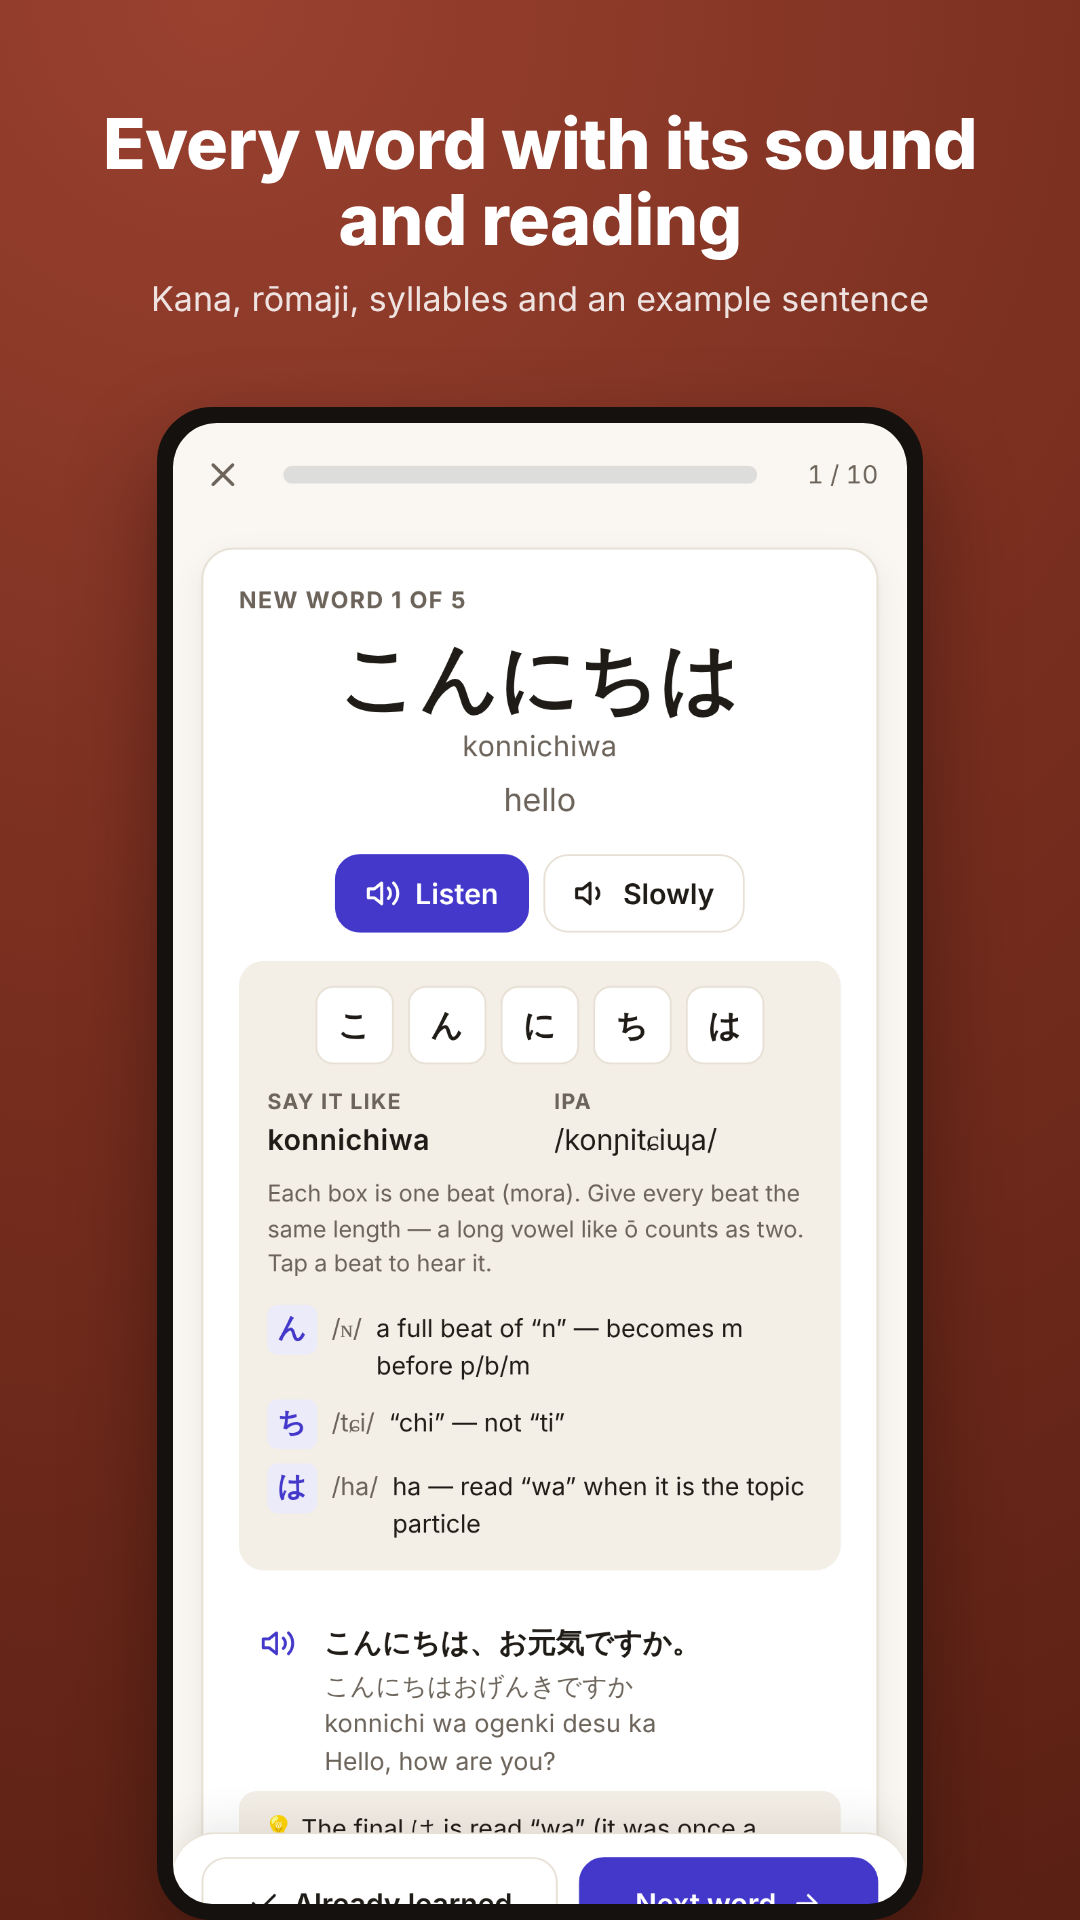
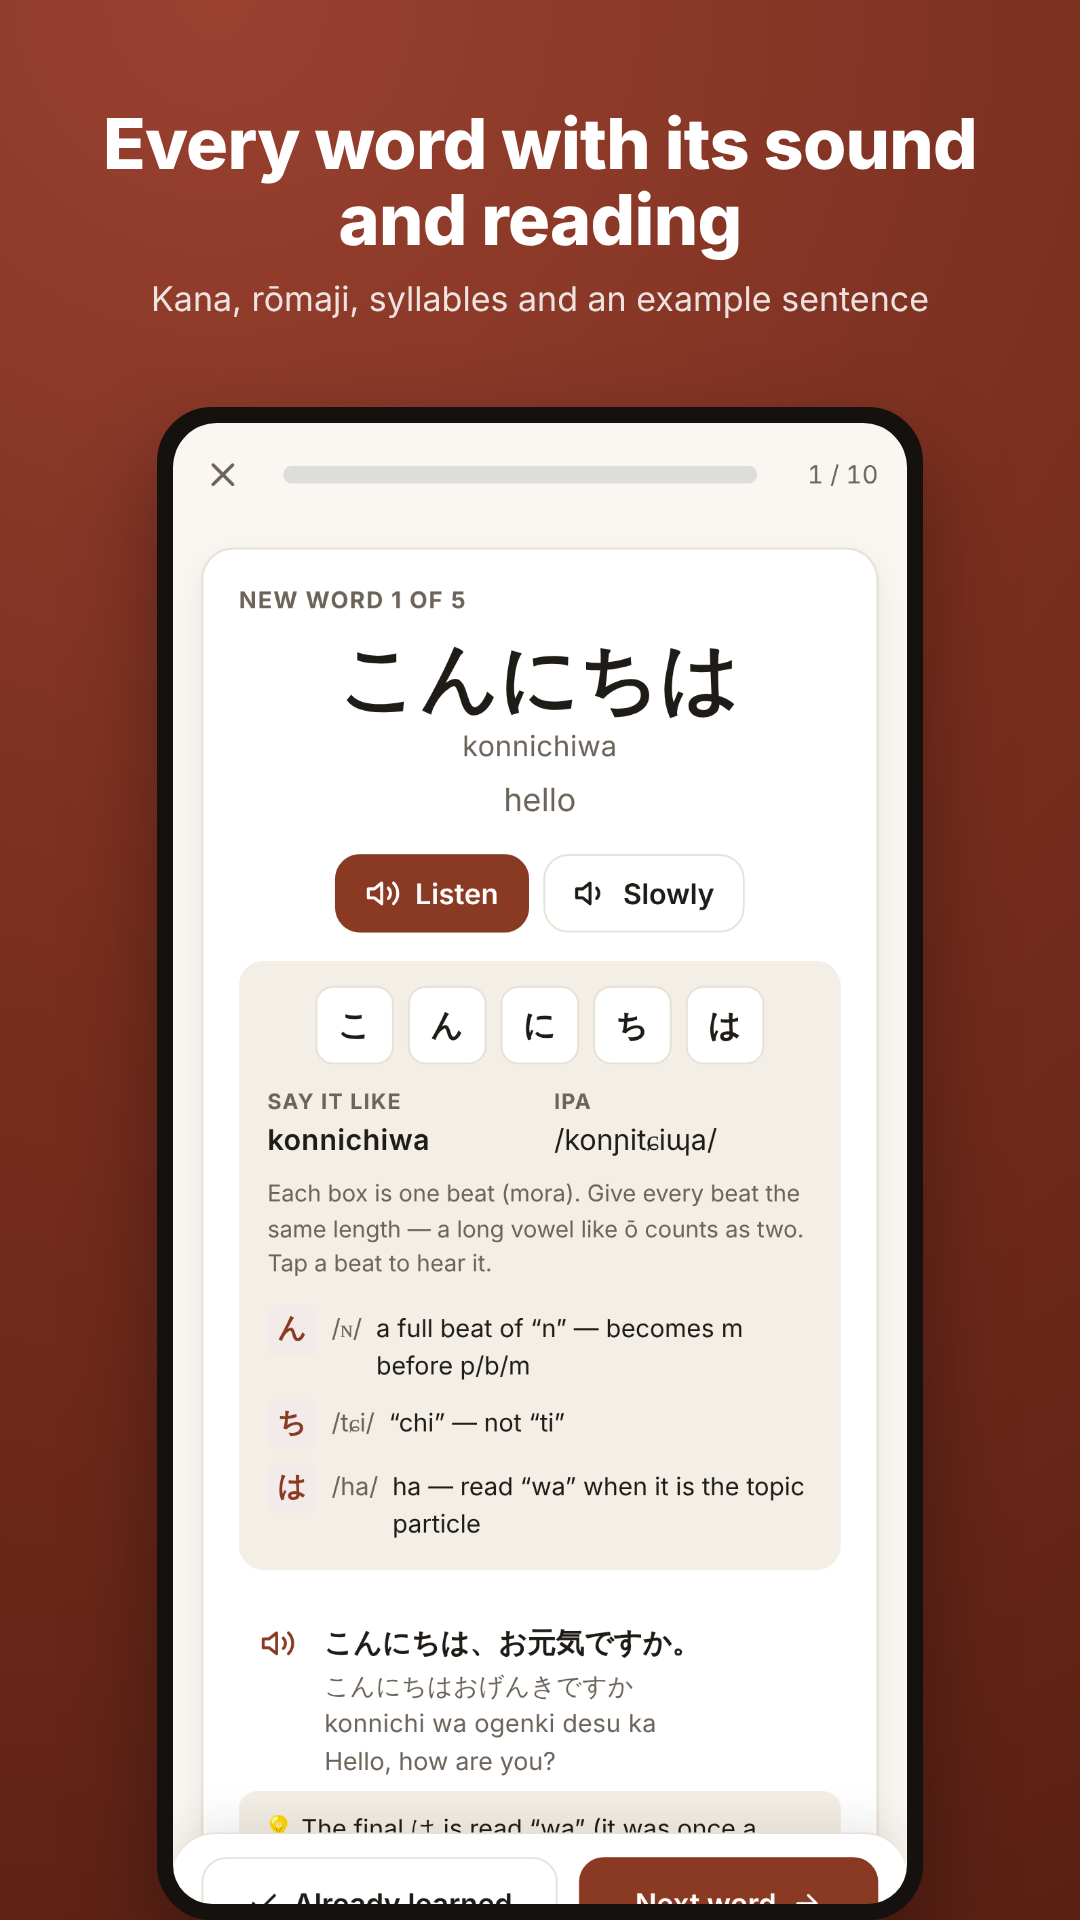
Motion, Tea as the standard colour, magenta for wrong answers
A new screen comes in block by block (app.js marks it .enter only when
the route changes, so a rerender stays still); rings and meters fill to
their value; the active tab hops; exercise choices arrive one by one;
buttons and cards give a little when pressed. Reduce motion turns all of
it off.

Tea, the terracotta of the icon, is the standard tap colour. Settings
saved before it (no colours: 2) move from indigo once; other colours
stay. Wrong answers are magenta so they never look like the tap colour
(the colour-role test keeps 60 degrees of hue between them).

Home's news card shows three items and a button for the rest. Store
screenshots regenerated in the new colours.

Claude-Session: https://claude.ai/code/session_01NKTM9xbjPU3QPKkrKpimbh

diff --git a/css/styles.css b/css/styles.css
@@ -5,7 +5,8 @@
    screen, notification badges). --action is for everything you tap (buttons,
    links, selected choices, audio, focus). --progress fills meters, rings and
    charts on a --track; finished things are --done (green, with a ✓). --bad is
-   for wrong answers and errors only, so nothing that is going well is red.
+   for wrong answers and errors only. The tap colour is the terracotta of the
+   icon (Tea), so errors are magenta rather than red: the two never look alike.
    Sizes: type --fs-*, corner radii --r-*, spacing --sp-* (4px steps).
    tests/styles.test.js checks the contrast of these pairs and that no
    stylesheet sets a raw rem font size or px corner radius. */
@@ -19,10 +20,10 @@
   --accent: #c8102e;
   --accent-ink: #ffffff;
   --accent-soft: #fbe8eb;
-  --action: #4338ca;
-  --action-hover: #3730a3;
+  --action: #8a3a22;
+  --action-hover: #6e2c18;
   --action-ink: #ffffff;
-  --action-soft: #ecebfa;
+  --action-soft: #f3ebe9;
   --progress: #1f8a58;
   --track: color-mix(in srgb, var(--text) 15%, var(--surface));
   --good: #1d7a45;
@@ -30,8 +31,8 @@
   --done: var(--good);
   --warn: #8f5b00;
   --warn-soft: #fbf0d9;
-  --bad: #c0392b;
-  --bad-soft: #fde9e6;
+  --bad: #a71b9b;
+  --bad-soft: #fce9fa;
   --easy: #1d4ed8;
   --easy-soft: #e5edfd;
   --rose: #be185d;
@@ -1380,3 +1381,76 @@ body.bare main { padding-top: 0; padding-bottom: 0; }
 .voice-name b { overflow-wrap: anywhere; }
 .voice-name small { color: var(--muted); font-size: var(--fs-xs); }
 .voice-on { display: inline-flex; align-items: center; gap: .25rem; font-size: var(--fs-sm); font-weight: 700; color: var(--action); padding-inline: .4rem; }
+
+/* ---------- Motion ----------
+   Short, quiet movement that says where things came from: a new screen rises
+   in block by block (app.js marks it .enter; drawing the same screen again
+   stays still), rings and meters fill up to their value, and anything you tap
+   gives a little under your finger. "Reduce motion" on the device turns all
+   of it off (the rule further up), and every animation only adds to a layout
+   that is complete without it. */
+:root {
+  --ease-out: cubic-bezier(.2, .8, .2, 1);
+  --ease-spring: cubic-bezier(.3, 1.45, .5, 1);
+}
+/* The rings' value can be animated once the browser knows it is a number. */
+@property --pct { syntax: '<number>'; inherits: false; initial-value: 0; }
+
+/* A new screen: each block a moment after the one above it (sessions have their own). */
+.view.enter:not(.session) > * { animation: enter-up .38s var(--ease-out) backwards; }
+.view.enter:not(.session) > :nth-child(2) { animation-delay: .04s; }
+.view.enter:not(.session) > :nth-child(3) { animation-delay: .08s; }
+.view.enter:not(.session) > :nth-child(4) { animation-delay: .12s; }
+.view.enter:not(.session) > :nth-child(5) { animation-delay: .16s; }
+.view.enter:not(.session) > :nth-child(6) { animation-delay: .2s; }
+.view.enter:not(.session) > :nth-child(n+7) { animation-delay: .24s; }
+@keyframes enter-up { from { opacity: 0; transform: translateY(10px); } }
+/* Lists of cards inside a block (topics, tools, achievements) follow in a ripple. */
+.view.enter :is(.cat-grid, .topic-grid, .shortcuts, .badge-grid, .news-list) > * { animation: enter-up .34s var(--ease-out) backwards; }
+.view.enter :is(.cat-grid, .topic-grid, .shortcuts, .badge-grid, .news-list) > :nth-child(2) { animation-delay: .1s; }
+.view.enter :is(.cat-grid, .topic-grid, .shortcuts, .badge-grid, .news-list) > :nth-child(3) { animation-delay: .14s; }
+.view.enter :is(.cat-grid, .topic-grid, .shortcuts, .badge-grid, .news-list) > :nth-child(4) { animation-delay: .18s; }
+.view.enter :is(.cat-grid, .topic-grid, .shortcuts, .badge-grid, .news-list) > :nth-child(5) { animation-delay: .22s; }
+.view.enter :is(.cat-grid, .topic-grid, .shortcuts, .badge-grid, .news-list) > :nth-child(6) { animation-delay: .26s; }
+.view.enter :is(.cat-grid, .topic-grid, .shortcuts, .badge-grid, .news-list) > :nth-child(n+7) { animation-delay: .3s; }
+
+/* Rings fill from empty to their value; meters grow from the start. */
+.view.enter :is(.goal-ring, .medal-ring), .score-ring { animation: ring-fill .9s var(--ease-out) .15s backwards; }
+@keyframes ring-fill { from { --pct: 0; } }
+.view.enter .meter-fill { transform-origin: left center; animation: meter-grow .8s var(--ease-out) .2s backwards; }
+@keyframes meter-grow { from { transform: scaleX(0); } }
+/* The goal met: the tick lands with a bounce. */
+.goal-ring.done .icon { animation: pop-in .5s var(--ease-spring) .5s backwards; }
+@keyframes pop-in { from { opacity: 0; transform: scale(.3); } }
+
+/* Pressing gives a little; letting go springs back. */
+.btn, .cta, .pill, .chip, .option, .tile, .cat-card, .shortcut, .quick-link, .up-next, .me-row, .lang-card, .medal, .news-list a, .tabbar a .icon {
+  transition-property: background, border-color, color, box-shadow, transform;
+  transition-duration: .15s, .15s, .15s, .2s, .18s;
+  transition-timing-function: ease, ease, ease, ease, var(--ease-spring);
+}
+:is(.btn, .cta, .pill, .chip, .option, .tile, .cat-card, .shortcut, .quick-link, .up-next, .me-row, .lang-card, .medal, .news-list a):active:not(:disabled) {
+  transform: scale(.97); transition-duration: .1s, .1s, .1s, .1s, .06s;
+}
+/* Cards that open something lift a little under a mouse. */
+@media (hover: hover) {
+  :is(.cat-card, .shortcut, .quick-link, .lang-card, .cta):hover { transform: translateY(-2px); box-shadow: 0 6px 18px rgb(31 27 22 / 10%); }
+}
+/* The arrow on a call to action leans the way it goes. */
+.cta > .icon:last-child { transition: transform .25s var(--ease-spring); }
+.cta:hover > .icon:last-child, .cta:focus-visible > .icon:last-child { transform: translateX(4px); }
+.view.enter .cta .cta-icon .icon { animation: spin-in .7s var(--ease-out) .2s backwards; }
+@keyframes spin-in { from { transform: rotate(-180deg); opacity: 0; } }
+
+/* The tab you are on: its icon hops once. */
+.tabbar a.active .icon { animation: tab-hop .42s var(--ease-spring); }
+@keyframes tab-hop { 40% { transform: translateY(-4px) scale(1.12); } }
+/* A new number of words to review. */
+.tab-badge:not([hidden]) { animation: pop-in .35s var(--ease-spring); }
+
+/* Choices in an exercise come in one after another. */
+.options > * { animation: enter-up .3s var(--ease-out) backwards; }
+.options > :nth-child(2) { animation-delay: .05s; }
+.options > :nth-child(3) { animation-delay: .1s; }
+.options > :nth-child(4) { animation-delay: .15s; }
+.options > :nth-child(n+5) { animation-delay: .2s; }

diff --git a/js/views/home.js b/js/views/home.js
@@ -10,6 +10,22 @@ import { challengeList, repairBanner } from './journey.js';
 import { newsToShow } from '../news.js';
 import { tripKit } from '../kit.js';
 
+/** The news items: the newest few, and a button for the rest, so the card never fills the screen. */
+const NEWS_SHOWN = 3;
+function newsList(ctx, news) {
+  const item = (n) => h('li', null,
+    h('a', { href: n.href, onclick: () => ctx.store.updateSettings({ newsSeen: news.id }) },
+      h('span', { 'aria-hidden': 'true' }, n.emoji), h('span', null, h('b', null, n.text), h('small', null, n.where))));
+  const list = h('ul', { class: 'news-list', id: 'news-list' }, news.items.slice(0, NEWS_SHOWN).map(item));
+  const rest = news.items.length - NEWS_SHOWN;
+  if (rest <= 0) return list;
+  const more = h('button', {
+    type: 'button', class: 'btn ghost small news-more', 'aria-controls': 'news-list',
+    onclick: () => { list.append(...news.items.slice(NEWS_SHOWN).map(item)); more.remove(); list.children[NEWS_SHOWN]?.querySelector('a')?.focus(); },
+  }, `Show ${rest} more`);
+  return h('div', null, list, more);
+}
+
 export default function home(ctx) {
   const { lang } = ctx;
   const s = computeStats(ctx);
@@ -102,9 +118,7 @@ export default function home(ctx) {
         type: 'button', class: 'btn small',
         onclick: () => { ctx.store.updateSettings({ newsSeen: news.id }); newsCard.remove(); },
       }, 'Got it')),
-    h('ul', { class: 'news-list' }, news.items.map((n) => h('li', null,
-      h('a', { href: n.href, onclick: () => ctx.store.updateSettings({ newsSeen: news.id }) },
-        h('span', { 'aria-hidden': 'true' }, n.emoji), h('span', null, h('b', null, n.text), h('small', null, n.where))))))) : null;
+    newsList(ctx, news)) : null;
 
   return h('div', { class: 'view home today' },
     h('section', { class: 'hello' },

diff --git a/tests/themes.test.js b/tests/themes.test.js
@@ -122,8 +122,8 @@ test('what the settings come to', () => {
   assert.equal(darkMedia('light'), 'not all');
   assert.equal(darkMedia('nonsense'), DARK_QUERY);
   assert.equal(accentKey({ accent: 'teal' }), 'teal');
-  assert.equal(accentKey({ accent: 'toString' }), 'indigo');
-  assert.equal(accentKey({}), 'indigo');
+  assert.equal(accentKey({ accent: 'toString' }), 'tea');
+  assert.equal(accentKey({}), 'tea');
   assert.equal(backgroundKey({ background: 'cool' }), 'cool');
   assert.equal(backgroundKey({ background: '__proto__' }), 'warm');
 });
@@ -131,7 +131,7 @@ test('what the settings come to', () => {
 test('the standard look sets nothing; other looks set only what differs', () => {
   for (const mode of ['light', 'dark']) {
     assert.deepEqual(themeVars({}, mode), {});
-    assert.deepEqual(themeVars({ theme: 'dark', accent: 'indigo', background: 'warm' }, mode), {});
+    assert.deepEqual(themeVars({ theme: 'dark', accent: 'tea', background: 'warm' }, mode), {});
     const colour = themeVars({ accent: 'teal' }, mode);
     assert.deepEqual(Object.keys(colour).sort(), ['--action', '--action-hover', '--action-ink', '--action-soft']);
     assert.equal(colour['--action'], ACCENTS.teal[mode][0]);

diff --git a/js/themes.js b/js/themes.js
@@ -24,6 +24,7 @@ export const MODES = [['system', 'Same as device'], ['light', 'Light'], ['dark',
 
 /** Colours for buttons, links and highlights: [--action, --action-hover, --action-ink] per mode. */
 export const ACCENTS = {
+  tea: { name: 'Tea', light: ['#8a3a22', '#6e2c18', '#ffffff'], dark: ['#eea98e', '#f8cdb9', '#3a1308'] },
   indigo: { name: 'Indigo', light: ['#4338ca', '#3730a3', '#ffffff'], dark: ['#a5b4fc', '#c7d2fe', '#0d1030'] },
   blue: { name: 'Blue', light: ['#1d4ed8', '#1e40af', '#ffffff'], dark: ['#8dbdf3', '#bfdbfe', '#0b1b3a'] },
   teal: { name: 'Teal', light: ['#0f766e', '#115e59', '#ffffff'], dark: ['#54d0bd', '#99f6e4', '#042f2e'] },
@@ -32,7 +33,7 @@ export const ACCENTS = {
   rose: { name: 'Rose', light: ['#be185d', '#9d174d', '#ffffff'], dark: ['#efa1cc', '#fbcfe8', '#3b0a22'] },
   purple: { name: 'Purple', light: ['#7e22ce', '#6b21a8', '#ffffff'], dark: ['#cfadf4', '#e9d5ff', '#2a0a45'] },
 };
-export const DEFAULT_ACCENT = 'indigo';
+export const DEFAULT_ACCENT = 'tea';
 /** "Your own colour": a hue picked on a slider; the shades are worked out by accentFromHue(). */
 export const CUSTOM_ACCENT = 'custom';
 export const DEFAULT_HUE = 200;

diff --git a/js/store.js b/js/store.js
@@ -46,7 +46,8 @@ const DEFAULTS = {
   autoNext: false, // after a right multiple-choice answer, go on to the next question by itself
   textSize: 'm', // 'm', 'l' or 'xl'
   theme: 'system', // 'system' (follow the device), 'light' or 'dark' — see js/themes.js
-  accent: 'indigo', // a key of ACCENTS, or 'custom' (then accentHue, 0–359, is the colour)
+  accent: 'tea', // a key of ACCENTS, or 'custom' (then accentHue, 0–359, is the colour)
+  colours: 2, // 2 since Tea became the default colour (see cleanSettings)
   accentHue: 200,
   background: 'warm', // a key of BACKGROUNDS
 };
@@ -168,6 +169,10 @@ function cleanSettings(raw) {
       out[k] = v;
     }
   }
+  // Indigo was the default colour until 26 November 2026. Settings saved before
+  // then (no `colours`) hold it whether or not it was picked, so they move to
+  // the new default, Tea; any other colour stays, and so does indigo picked since.
+  if (raw.colours !== 2 && out.accent === 'indigo') out.accent = DEFAULTS.accent;
   return out;
 }
 

diff --git a/tests/store.test.js b/tests/store.test.js
@@ -388,3 +388,14 @@ test('native mirror: when the WebView storage fills up, the next launch gets the
   assert.ok(store.getCard('tr', 'after'), 'the outdated WebView copy did not win');
   assert.ok(store.getCard('tr', 'before'));
 });
+
+test('Tea is the default colour; settings saved before it move from indigo, picks made since stay', () => {
+  const load = (settings) => { store.importData(JSON.stringify({ settings, progress: {} })); return store.getSettings(); };
+  assert.equal(load({}).accent, 'tea');
+  assert.equal(load({ accent: 'indigo' }).accent, 'tea', 'old default (or an old pick, which looks the same)');
+  assert.equal(load({ accent: 'teal' }).accent, 'teal', 'another colour is kept');
+  assert.equal(load({ accent: 'custom', accentHue: 40 }).accent, 'custom');
+  const now = load({ accent: 'indigo', colours: 2 });
+  assert.equal(now.accent, 'indigo', 'indigo picked after the change is kept');
+  assert.equal(now.colours, 2);
+});

diff --git a/css/dark.css b/css/dark.css
@@ -13,18 +13,18 @@
   --accent: #ff4d63;
   --accent-ink: #1b0207;
   --accent-soft: #3a1820;
-  --action: #a5b4fc;
-  --action-hover: #c7d2fe;
-  --action-ink: #0d1030;
-  --action-soft: #33303b;
+  --action: #eea98e;
+  --action-hover: #f8cdb9;
+  --action-ink: #3a1308;
+  --action-soft: #3b3029;
   --progress: #4fc08a;
   --track: color-mix(in srgb, var(--text) 16%, var(--surface));
   --good: #5fd08d;
   --good-soft: #15301f;
   --warn: #f2b54a;
   --warn-soft: #33270f;
-  --bad: #ff7b6b;
-  --bad-soft: #3a1915;
+  --bad: #f391eb;
+  --bad-soft: #371535;
   --easy: #7aa7ff;
   --easy-soft: #18243d;
   --rose: #f472b6;

diff --git a/js/app.js b/js/app.js
@@ -335,6 +335,9 @@ function render() {
       h('h2', null, 'Something went wrong'), h('p', { class: 'muted' }, String(err.message || err)),
       h('a', { class: 'btn primary', href: '#/' }, 'Back home')));
   }
+  // A screen that is new (not the same one drawn again) comes in with a short
+  // animation (css/styles.css "Motion"); a rerender stays still.
+  if (name !== lastView && el?.classList) el.classList.add('enter');
   set(main, el);
   document.body.classList.toggle('bare', name === 'welcome');
 

diff --git a/css/nav.css b/css/nav.css
@@ -332,3 +332,5 @@ body.showing { overflow: hidden; }
 .news-list a:hover { background: var(--surface-2); }
 .news-list a > span:last-child { display: flex; flex-direction: column; min-width: 0; }
 .news-list small { color: var(--muted); font-size: var(--fs-xs); }
+.btn.news-more { margin-top: var(--sp-1); color: var(--action); padding-inline: .25rem; }
+.news-list > li:nth-child(n+4) { animation: enter-up .3s var(--ease-out, ease) backwards; }

diff --git a/CHANGELOG.md b/CHANGELOG.md
@@ -3,6 +3,10 @@
 ## Unreleased
 
 ### Changed
+- **More motion, kept quiet:** a screen you open comes in block by block, the daily goal ring, achievement rings and progress bars fill up to their value, the tab you open gives a small hop, choices in an exercise appear one after another, and buttons and cards give a little when pressed (and lift under a mouse). Drawing the same screen again (a switch, a filter) stays still, and the device's "reduce motion" setting turns all of it off.
+- **Home: shorter "New in Four Tongues" card:** it shows the three newest things, and a button for the rest.
+- **Tea is the new standard colour:** buttons, links and highlights take the terracotta of the app icon instead of indigo. If you had the old standard colour you move to Tea once; any other colour you picked stays, and Indigo is still in Settings → Display → Colour.
+- **Wrong answers are magenta now, not red,** so they never look like the terracotta you tap. They still carry a ✗ and give a little shake.
 - **New name: Four Tongues** (was Lisan, a name several other apps on Google Play already use). The launcher label, the app’s title, the web app’s name, messages and the privacy policy all say Four Tongues; the package ID stays `com.ammarmahdi.lisan`, so it updates in place.
 - **New app icon:** a glass of tea whose steam curls up into a speech bubble, with four dots in the colours of the four languages, on terracotta. Android gets an adaptive icon with a themed (monochrome) version for Android 13+; the web app gets a separate maskable icon so launchers that crop to a circle keep the whole drawing.
 - **Privacy policy:** it now gives a contact address.

diff --git a/CLAUDE.md b/CLAUDE.md
@@ -64,6 +64,22 @@ the next commit is the way forward (a stuck run cannot be re-run while it shows 
 - Small per-device conveniences (reader position, last missed words, quiz misses) use
   `devicePref` / `setDevicePref` in `js/components.js`.
 - Voice respellings are keyed by entry id, or by `text:<sentence>` for sentences without an id.
+- A setting whose default changes needs a marker: saved settings hold every default, so an old
+  default cannot be told from a pick. Tea replaced indigo with `colours: 2` for that (store.js
+  `cleanSettings`); copy the pattern for the next default that changes.
+
+## Design and motion
+
+- Colour roles are tested (`tests/styles.test.js`): the tap colour (`--action`, Tea terracotta by
+  default since 26 November 2026) must stay 60 degrees of hue from `--bad`. That is why wrong
+  answers are magenta, not red. Changing either colour means checking the other.
+- Motion lives in the "Motion" section at the end of `css/styles.css`. `app.js` adds `.enter` to
+  a screen only when the route changes, so a rerender (a switch, a filter) stays still; gate new
+  entrance animations on `.view.enter`. Sessions (`.view.session`) animate on their own. The
+  global reduced-motion rule turns everything off, so every animation must only add to a layout
+  that is complete without it (`backwards` fill, never a final state that only the animation sets).
+- Store screenshots show the app's look: rerender them (`scripts/store-screenshots.cjs`) after a
+  visual change, and remember the Play listing keeps the old ones until someone uploads the new.
 
 ## Pitfalls already hit
 
